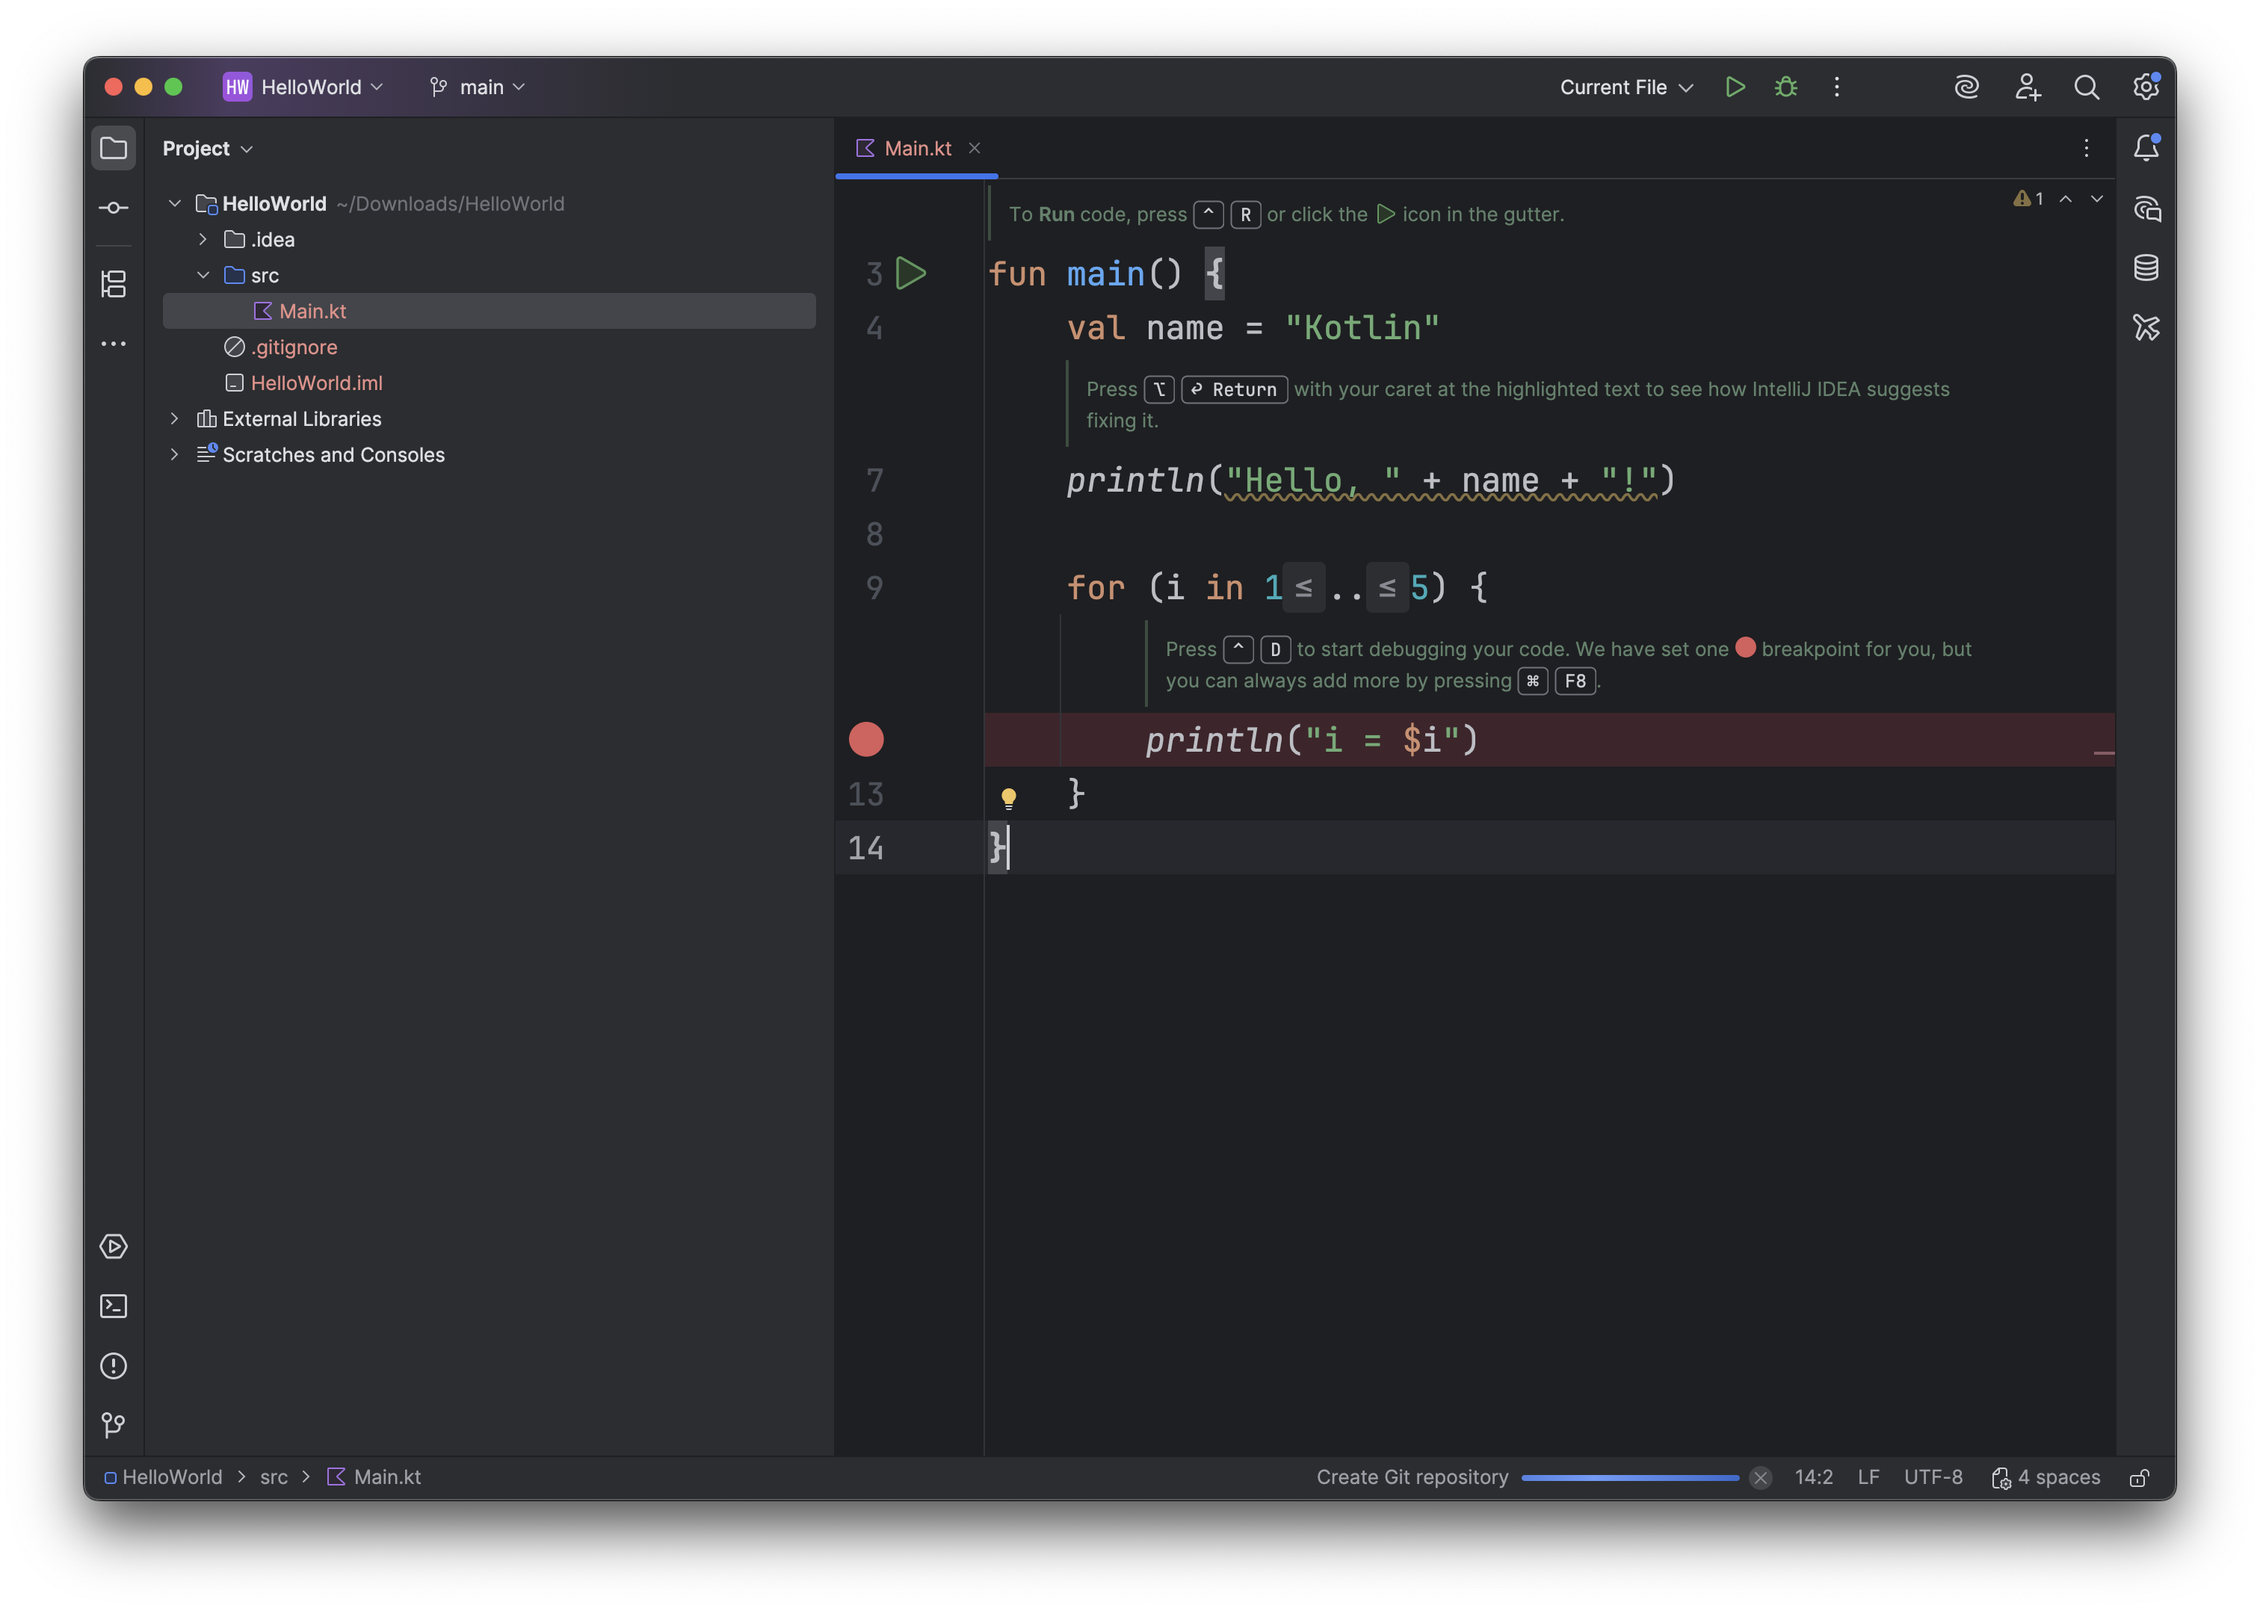
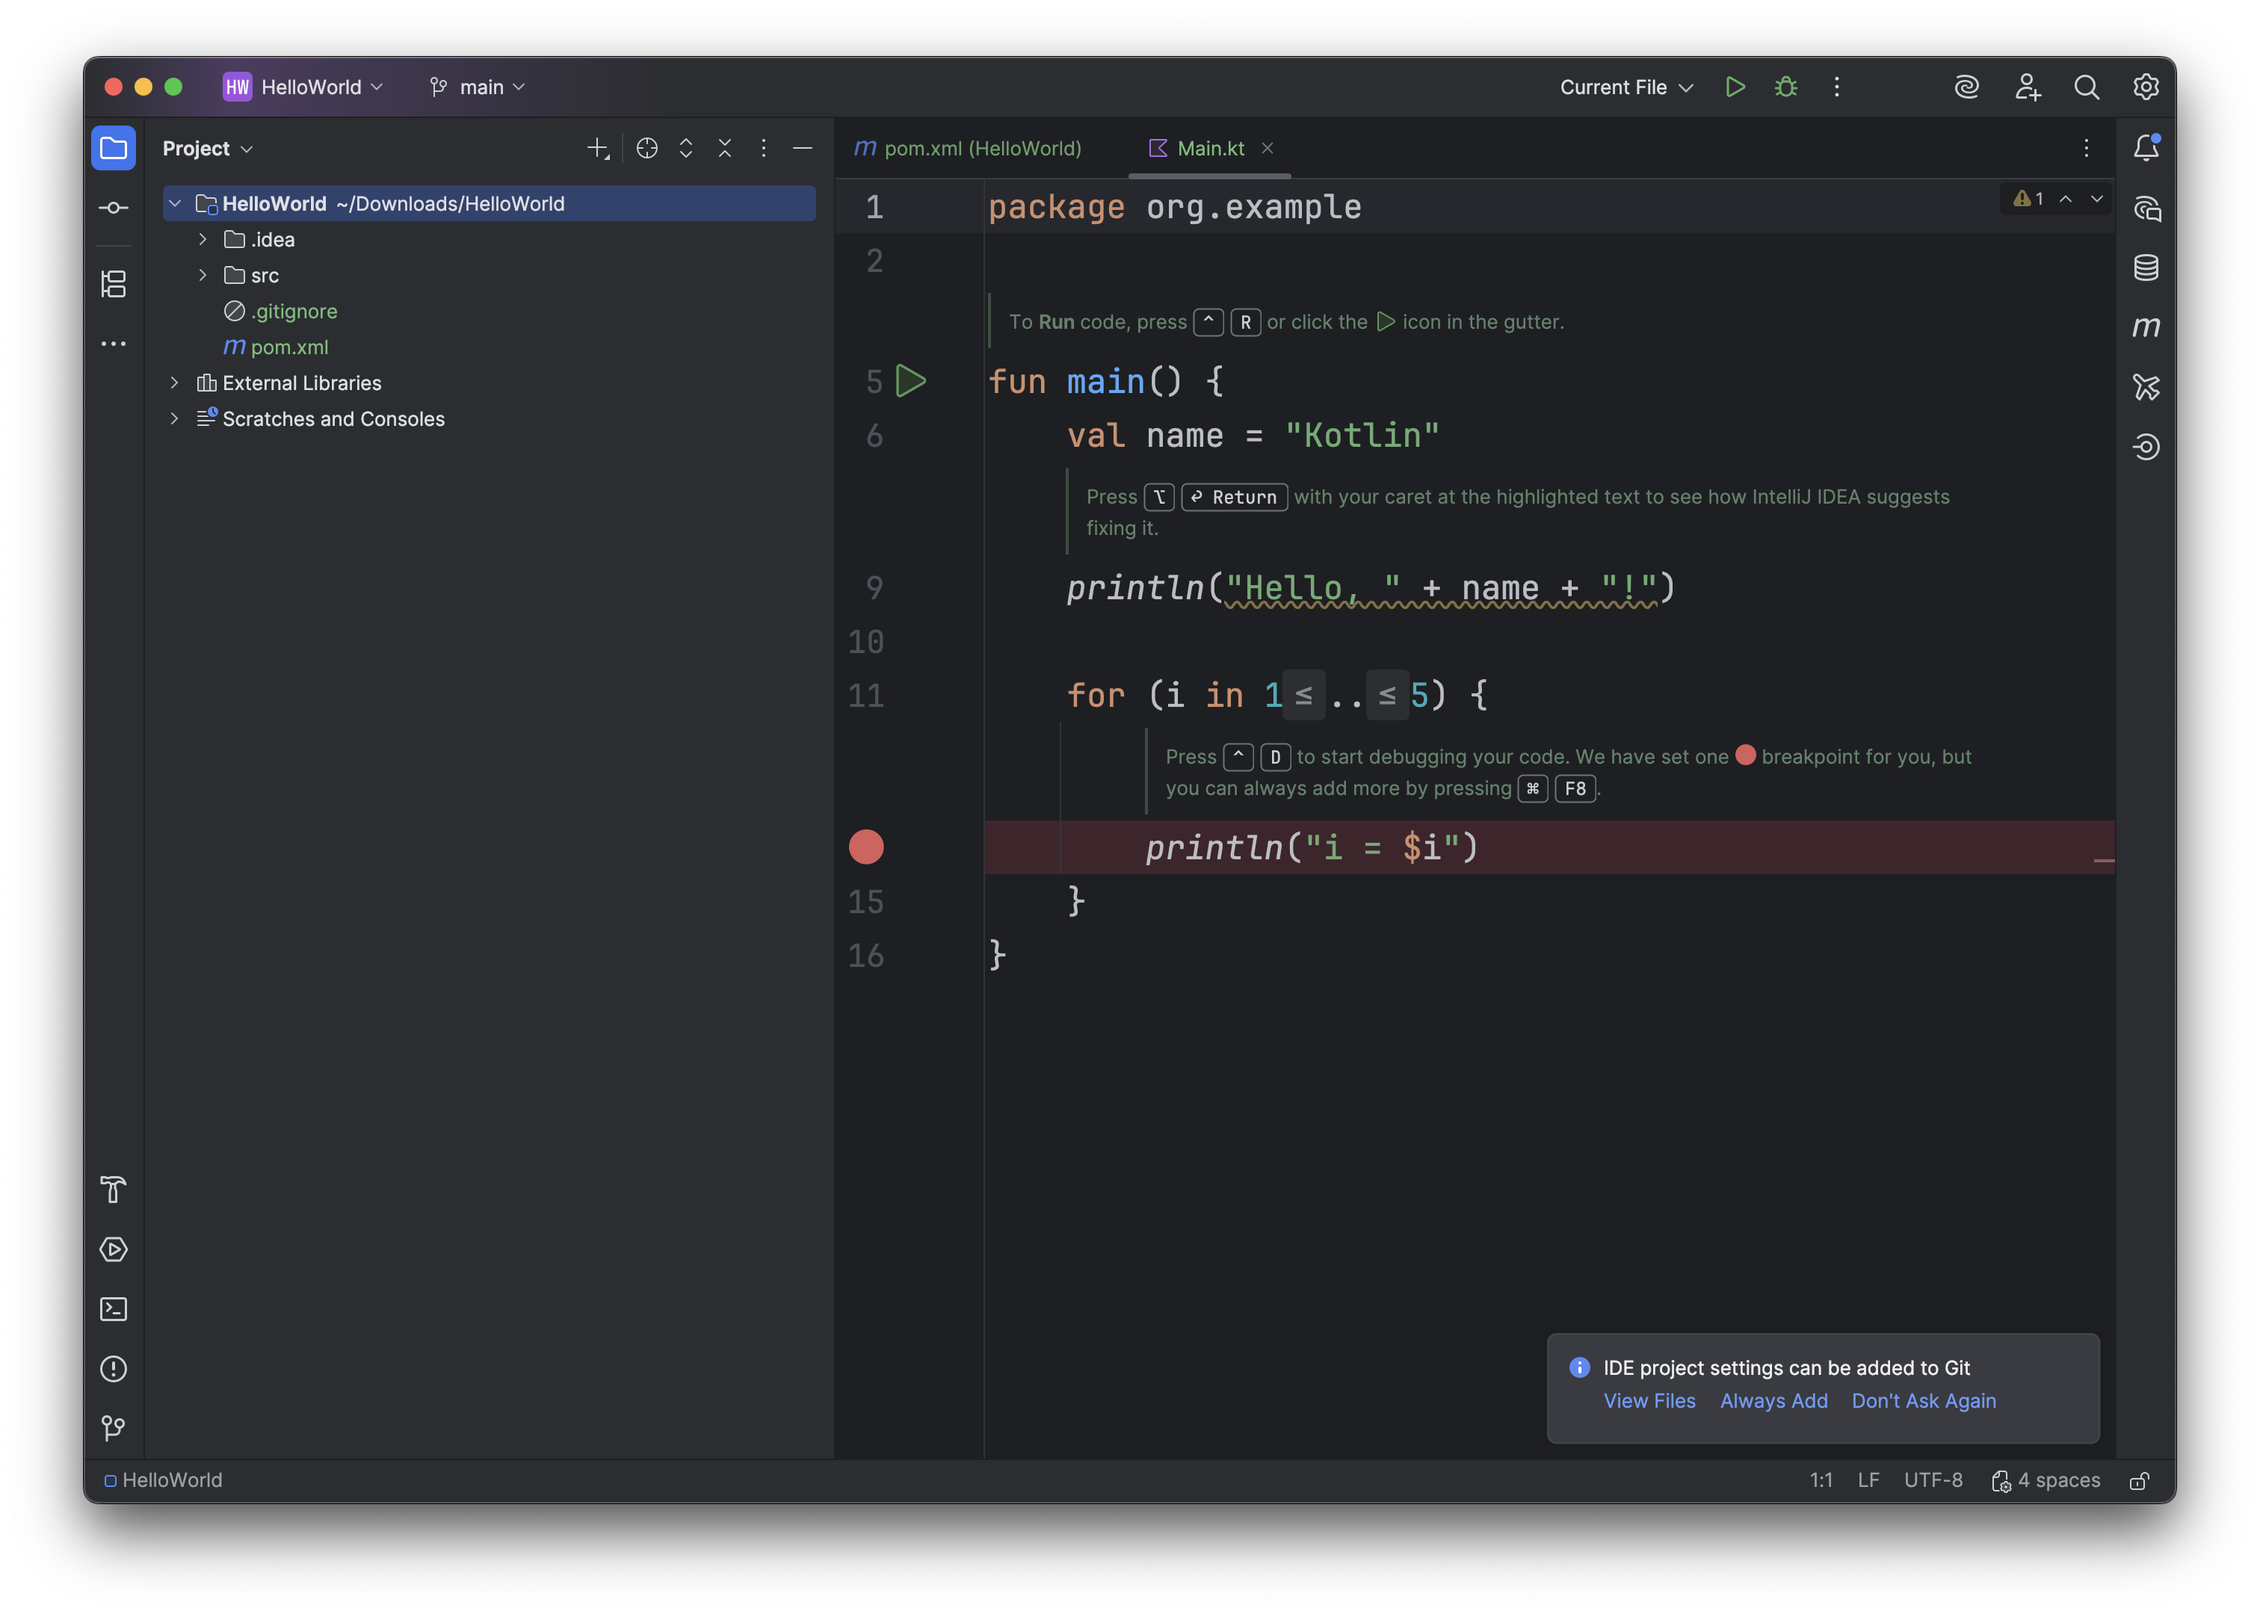
updated workflow for setting dependencies

diff --git a/how_to/setting_up_kotlin.md b/how_to/setting_up_kotlin.md
@@ -15,9 +15,9 @@ You should also take advantage of the fact that students can get free access to 
 
 Let's work together to create our first Kotlin Program.  Open up IntellJ, select `File` then `New` then `Project`.
 
-Next, make sure you've selected  `Kotlin` as your language  and `Add sample code` should be checked.  Your JDK may look different from what is shown here, that's probably fine (but let me know if you run into issues).  For Build System, you can select any of them but IntelliJ seems to be the simplest in my experience.  See below for a screenshot of the new project dialog.
+Next, make sure you've selected  `Kotlin` as your language  and `Add sample code` should be checked.  Your JDK may look different from what is shown here, that's probably fine (but let me know if you run into issues).  For `Build System`, you can select any of them but Maven seems to work well in my experience).  See below for a screenshot of the new project dialog.
 
-![A screenshot of the IntelliJ IDE showing the selection of Kotlin as the programming language](/images/new_project.png).
+![A screenshot of the IntelliJ IDE showing the selection of Kotlin as the programming language](/images/new_project.png)
 
 After you click `Create`, a window will open up with your new project.  It should look something like this.
 
@@ -44,29 +44,46 @@ Note that the values of the local variables are shown along with the line of cod
 
 ## Adding a Dependency on a Library
 
-The process for adding a dependency on a third party library (e.g., to add some functionality not present in the Kotlin standard library) will depend on the build system.  Here is an example of how to add a dependency for the `IntelliJ` build system (as selected in the previous section).  This should also work for `Maven` as well.
+The process for adding a dependency on a third party library (e.g., to add some functionality not present in the Kotlin standard library) will depend on the build system.  Here is an example of how to add a dependency for the `Maven` build system (as selected in the previous section).  This should also work for `Gradle` as well.
 
-You can approach this in two ways.  First, you can do an ordinary Google search to find your dependency.  For example, if I want to do linear algebra things in Kotlin, I could search `Linear algebra kotlin library'.  From this list, I can usually find some instructions on how to add the library as a dependency.  Alternatively, you can search for the dependency you want to add using the official [Maven Search engine](https://search.maven.org/?eh=) or, if you want a more user-friendly experience, a community-managed [Maven Search Engine Altarnative](https://mvnrepository.com/).  If I type in Linear Algebra to the site above, I get the following output.
+> Before getting started, configure IntelliJ to automatically download documentation and source for any imported dependencies.  You can do this by going to `Settings` -> `Build, Execution, & Deployment` -> `Build Tools` -> `Maven` -> `Importing` and then checking Automatically download `Sources`, `Documentation`, and `Annotations`.
+
+You can approach this in two ways.  First, you can do an ordinary Google search to find your dependency.  For example, if I want to do linear algebra things in Kotlin, I could search `Linear algebra kotlin library'.  From this list, I can usually find some instructions on how to add the library as a dependency.  Alternatively, you can search for the dependency you want to add using the official [Maven Search engine](https://search.maven.org/?eh=) or, if you want a more user-friendly experience, a community-managed [Maven Search Engine Alternative](https://mvnrepository.com/).  If I type in Linear Algebra to the site above, I get the following output.
 
 ![The search output from mvnrepository.com](/images/maven_search.png)
 
-Next, I can pick the library I want by clicking on it and choosing a version.  Let's choose the EJML library and select teh latest version (`0.44`).  There will be a selector to choose the build system you are using.  In our example of using IntelliJ build system we can add the dependency through Maven.  We will do this by finding the Maven coordinates for the dependency.  This is most easily accessed by selecting `Gradle` from the tabbed selector and copying the coordinates (which are `org.ejml:ejml-core:0.44.0` in this case).
+Next, I can pick the library I want by clicking on it and choosing a version.  Let's choose the EJML Simple Library and select the latest version (`0.44`).  There will be a selector to choose the build system you are using.  In our example of using Maven build system we can add the dependency by selecting `Maven` from the tabbed selector, copying the XML fragment (which should look like the following), and pasting it into the `<dependencies></dependencies>` section of `pom.xml`.
 
-To add the dependency, right-click on your project name in the navigator in IntelliJ (e.g., `HelloWorld`), select `Open Module Settings`, choose `Dependencies` and click the plus sign.  Choose `Library` then from `Maven`.  Now you can paste in the maven coordinates determined above (i.e., `org.ejml:ejml-core:0.44.0`).  Click `Ok`.  If all went well you will see a list of classes to import.  Click `Ok` again, and then the dependency should be downloaded.
-
-To test our dependency, let's modify our code.
-
-```kotlin
-import org.ejml.simple.SimpleMatrix as M
-
-fun main() {
-    val q = M(3, 3)
-    q[0,0] = 3.0
-    print(q)
-}
+```xml
+<!-- https://mvnrepository.com/artifact/org.ejml/ejml-simple -->
+<dependency>
+    <groupId>org.ejml</groupId>
+    <artifactId>ejml-simple</artifactId>
+    <version>0.44.0</version>
+</dependency>
 ```
 
-This code creates a 3x3 matrix (initially with all 0's), fills in 3.0 in the 1st row and 1st column, and then prints out the result.
+You will need to click the `Reload` button to complete the process.
+
+To work with our dependency, let's modify our code.  If we know a type in the imported module we want to use, we can type it and the editor will automatically suggest the appropriate class to import.  Go ahead and add the following lines to the top of main 
+```kotlin
+val q = SimpleMatrix(3, 3)
+q[0,0] = 3.0
+print(q)
+```
+
+Initially, the word `SimpleMatrix` will be red since it is not imported.  You can right-click on it and select `Context Actions` and choose `Import SimpleMatrix`.  This will add the appropriate import at the top of your code.
+
+What does this code actually do?  Let's access the documentation.  If you click on SimpleMatrix, you should see a pop-up with documentation of what that command does (in this case it creates a matrix with all 0's).  You can further explore the documentation by interacting with the links in the documentation snippet.
+
+Some useful keyboard shortcuts for interacting with the documentation and discovering how external libraries work is as follows.
+
+* Search Everywhere: Shift Shift 
+* Quick Doc (automatically show documentation in a sidebar): macOS F1 (or Ctrl+J), Win/Linux Ctrl+Q 
+* Go to Declaration / Implementation: ⌘B / ⌥⌘B (Win/Linux Ctrl+B / Ctrl+Alt+B)
+* Show Usages: ⌥⌘F7 (Win/Linux Alt+F7)
+* Parameter Info: ⌘P (Win/Linux Ctrl+P)
+* Navigate Class / Symbol: ⌘O / ⌥⌘O (Win/Linux Ctrl+N / Ctrl+Alt+Shift+N)
 
 ## A Note about Variation in Setup
 
